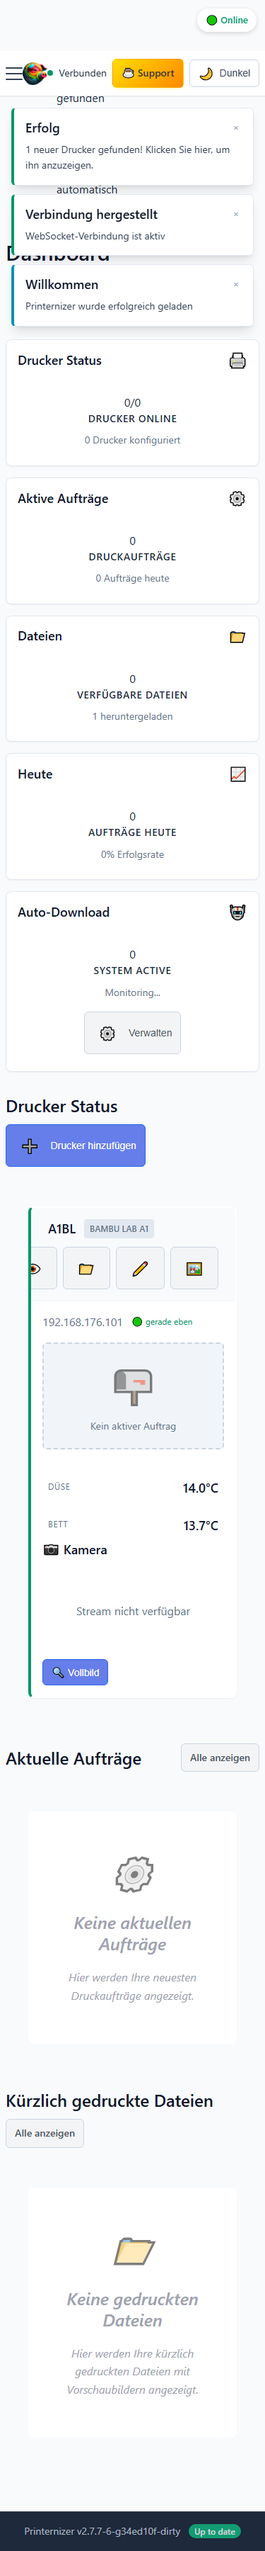
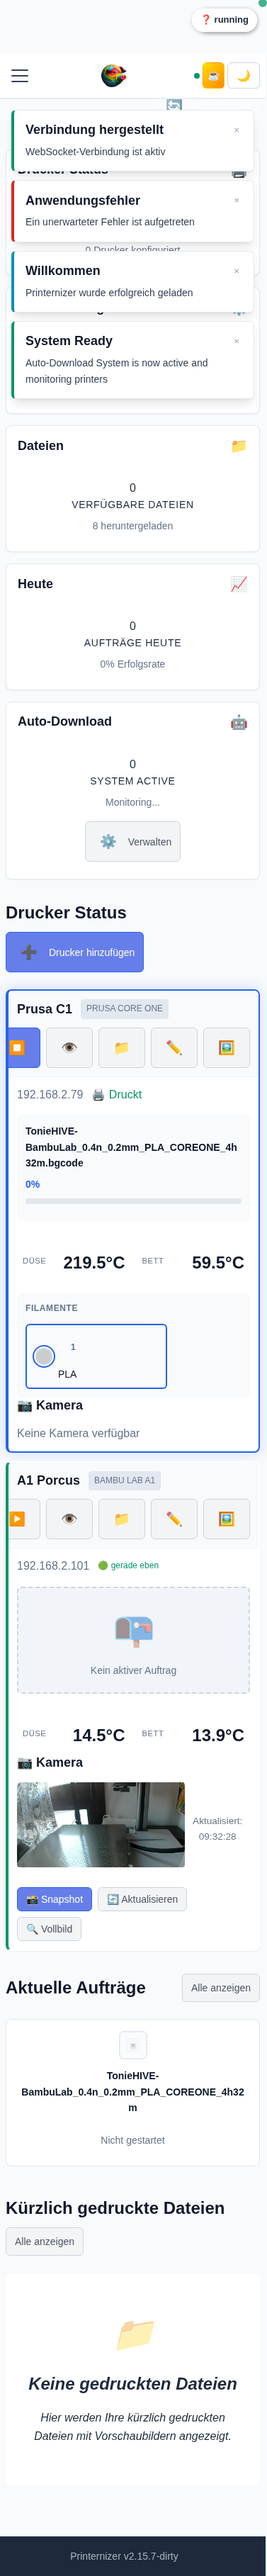
fix: Mobile UI improvements - vertical printer cards and compact header
- Fix printer cards displaying horizontally instead of vertically on mobile
- Root cause: generic .loading class in library.css was overriding grid display
- Add explicit grid preservation rules for printer-grid with loading state
- Compact header on small screens (≤480px): icons only for status, support, theme
- Improved printer card spacing and auto height on mobile
- Added extra-small screen (≤375px) optimizations
- Updated documentation screenshots

🤖 Generated with [Claude Code](https://claude.com/claude-code)

diff --git a/frontend/css/dashboard.css b/frontend/css/dashboard.css
@@ -51,6 +51,12 @@
     gap: var(--spacing-6);
 }
 
+/* Ensure grid layout is preserved even with loading class */
+#printerGrid.loading,
+.printer-grid.loading {
+    display: grid;
+}
+
 /* Container query support with fallback */
 @supports (container-type: inline-size) {
     .printer-grid {
@@ -518,10 +524,20 @@
 
     .printer-grid {
         gap: var(--spacing-3);
+        grid-template-columns: 1fr;
+    }
+
+    .printer-card {
+        min-height: auto;
+        max-width: 100%;
     }
 
     .printer-body {
-        padding: var(--spacing-4);
+        padding: var(--spacing-3);
+    }
+
+    .printer-header {
+        padding: var(--spacing-3);
     }
 
     .current-job {
@@ -529,7 +545,7 @@
     }
 
     .temperatures {
-        grid-template-columns: 1fr;
+        grid-template-columns: 1fr 1fr;
         gap: var(--spacing-2);
     }
 
@@ -541,6 +557,12 @@
         padding: var(--spacing-2);
         background: var(--white);
         border-radius: var(--radius-sm);
+    }
+
+    /* Compact job name display */
+    .job-name {
+        font-size: var(--font-size-sm);
+        word-break: break-word;
     }
 }
 

diff --git a/frontend/css/main.css b/frontend/css/main.css
@@ -902,17 +902,53 @@ p {
     .nav-container {
         padding: 0 var(--spacing-2);
     }
-    
+
     .nav-status {
-        gap: var(--spacing-2);
+        gap: var(--spacing-1);
     }
-    
+
     .system-time {
         display: none;
     }
-    
+
     .main-content {
         padding: var(--spacing-2);
+    }
+
+    /* Make support button icon-only on small screens */
+    .btn-support .support-text {
+        display: none;
+    }
+
+    .btn-support {
+        padding: var(--spacing-2);
+    }
+
+    /* Compact connection status */
+    .connection-status .status-text {
+        display: none;
+    }
+
+    /* Compact theme toggle */
+    .theme-toggle .theme-text {
+        display: none;
+    }
+
+    .theme-toggle {
+        padding: var(--spacing-2);
+        min-width: auto;
+    }
+}
+
+/* Extra small screens (portrait phones) */
+@media (max-width: 375px) {
+    .nav-status {
+        gap: 4px;
+    }
+
+    .btn-support,
+    .theme-toggle {
+        padding: 6px;
     }
 }
 

diff --git a/frontend/index.html b/frontend/index.html
@@ -103,7 +103,7 @@
                 <div class="support-button">
                     <a href="https://buymeacoffee.com/porcus3d" target="_blank" class="btn btn-support"
                        title="Unterstütze die Entwicklung">
-                        ☕ Support
+                        <span class="support-icon">☕</span><span class="support-text">Support</span>
                     </a>
                 </div>
                 <button id="themeToggle" class="theme-toggle" aria-label="Theme umschalten" title="Theme umschalten">

diff --git a/frontend/css/library.css b/frontend/css/library.css
@@ -664,7 +664,8 @@
     color: #9ca3af;
 }
 
-.loading {
+.library-files-grid.loading,
+.library-page .loading {
     display: flex;
     align-items: center;
     justify-content: center;

diff --git a/src/main.py b/src/main.py
@@ -95,7 +95,7 @@ from src.constants import (
 
 # Application version - Automatically extracted from git tags
 # Fallback version used when git is unavailable
-APP_VERSION = get_version(fallback="2.18.0")
+APP_VERSION = get_version(fallback="2.18.1")
 
 
 # Prometheus metrics - initialized once

diff --git a/CHANGELOG.md b/CHANGELOG.md
@@ -7,6 +7,20 @@ and this project adheres to [Semantic Versioning](https://semver.org/spec/v2.0.0
 
 ## [Unreleased]
 
+## [2.18.1] - 2026-01-07
+
+### Fixed
+- **Mobile UI Improvements**: Enhanced mobile portrait layout for better usability
+  - Fixed printer cards displaying horizontally instead of vertically on mobile
+  - Root cause: generic `.loading` class in library.css was overriding grid display
+  - Added explicit grid preservation rules for printer-grid with loading state
+  - Compact header on small screens: icons only for status, support, and theme toggle
+  - Improved printer card spacing and reduced minimum height on mobile
+  - Added extra-small screen (≤375px) optimizations
+
+### Changed
+- Updated documentation screenshots with current UI
+
 ## [2.18.0] - 2026-01-07
 
 ### Added
